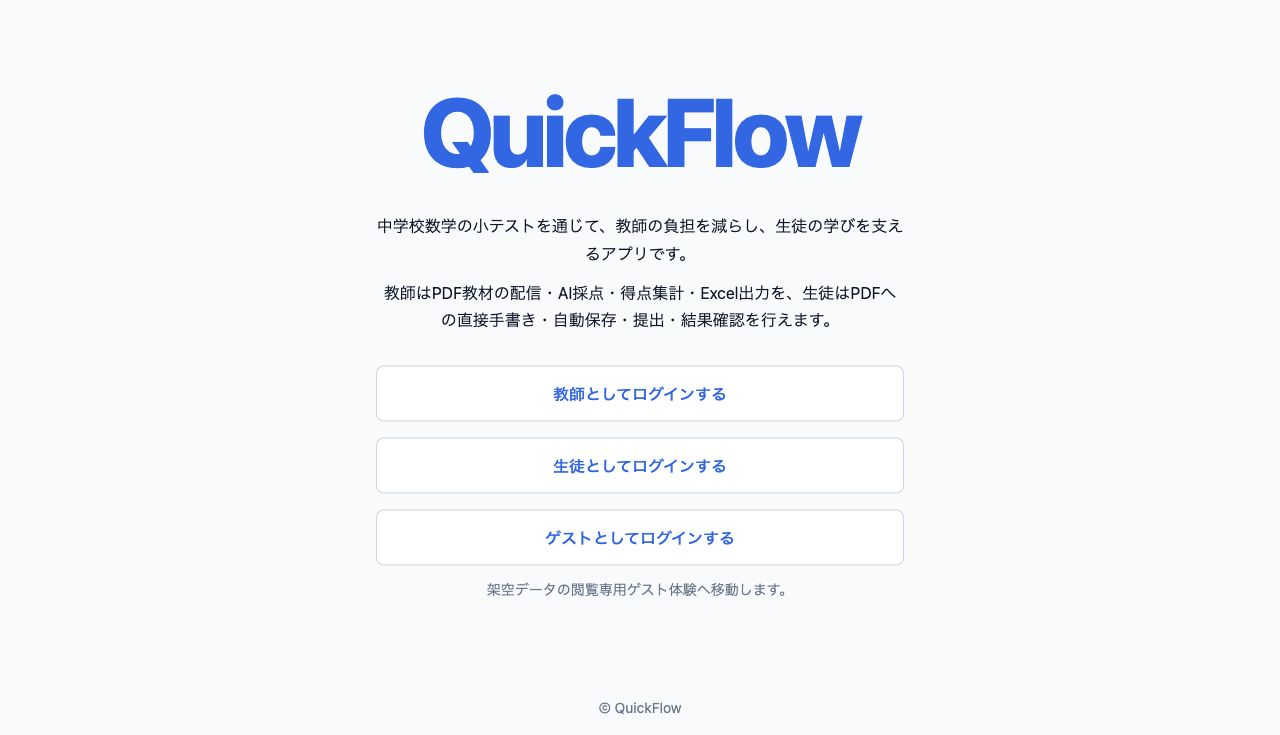
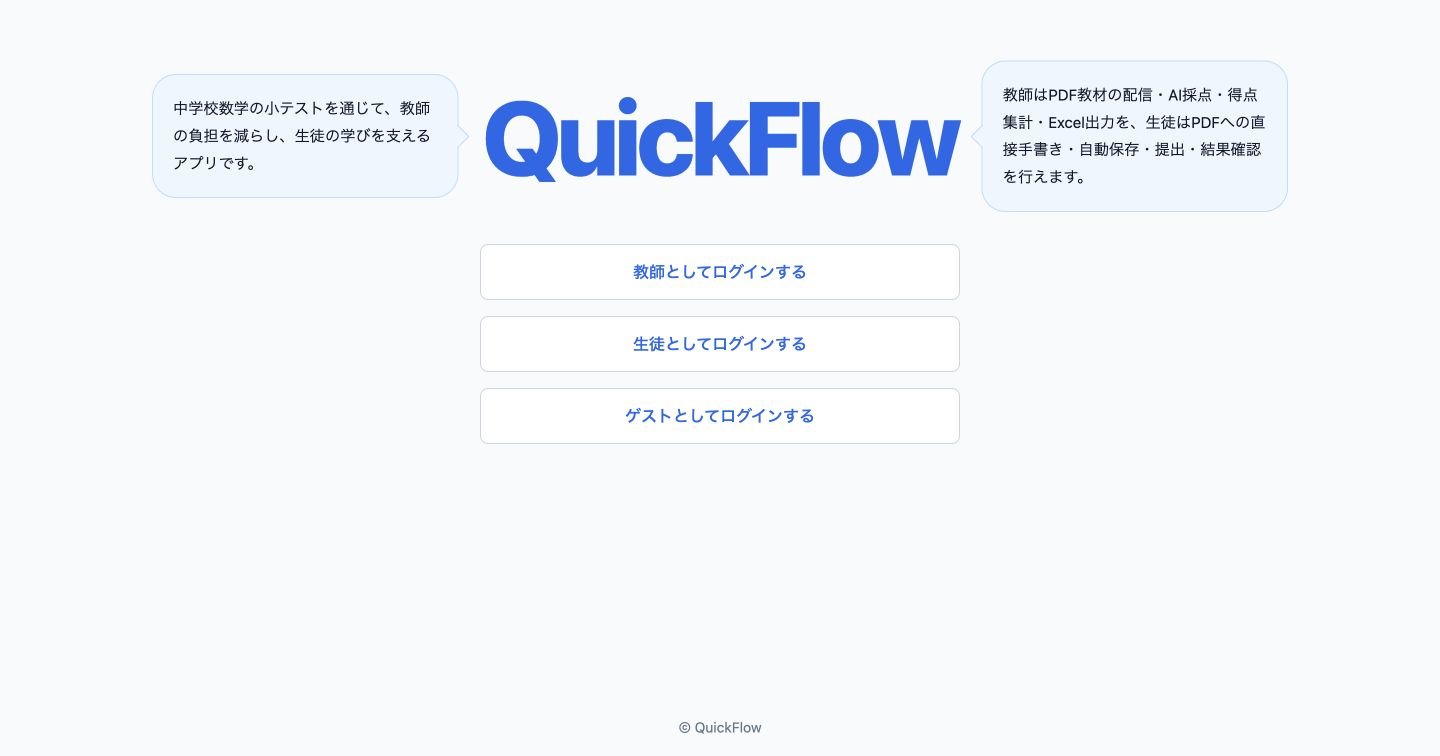
docs: refresh current public and guest README screenshots

diff --git a/README.md b/README.md
@@ -31,29 +31,31 @@ AIによる判定をそのまま確定せず、読みにくい答案は「要確
 
 ## 使い方と画面
 
-以下は稼働版 `acd22fb9` の実画面を撮影したスクリーンショットです（2026-10-23 UTC）。トップ以外は公開guestの架空データで、実生徒の答案や実AIの実行結果ではありません。画面の文言や値を画像編集で差し替えていません。
+トップ・教師の成績一覧・生徒の結果は、稼働版 `4667c7ca` の実画面です（2026-10-24 UTC）。学校・アカウント・得点は公開guest用のサンプルで、教材・答案PDFは利用者が公開を承認したものです。判定と70点は手動の表示例で、実AIの実行結果ではありません。画面の文言や値を画像編集で差し替えていません。教師答案の画像だけは、下記のとおり前版の履歴を残しています。
+
+検証中に埋込みPDFが白く写る場面もありましたが、所有者は現行版の教師・生徒の両画面で表示を確認したと報告しています。原因の特定や、すべての環境での表示を保証するものではありません。
 
 ### 1. 教師がPDF教材を配信し、成績を確認する
 
 通常利用では、PDF教材・1問の点数・配信先クラスを確認して小テストを配信します。正答生成は非同期で進むため、状態を確認しながら待ちます。成績一覧では、採点済みの得点と未提出を区別できます。
 
-![教師guestの小テスト詳細と成績一覧。架空の採点済み10点と未提出を区別](docs/screenshots/teacher-grades.jpg)
+![教師guestの小テスト詳細と成績一覧。手動表示例70点と未提出、Excel出力の入口](docs/screenshots/teacher-grades.jpg)
 
-この画像は閲覧専用guestです。通常教師の配信・編集・Excel出力などの操作ボタンをすべて表示したものではありません。
+この画像は閲覧専用guestです。成績の閲覧とExcel出力を利用できますが、通常教師の配信・編集操作はできません。
 
 ### 2. 教師が答案と判定を見比べる
 
 答案PDFと問題ごとの結果を並べて確認できます。通常利用では、教師が最終判定を修正すると得点が再計算され、配信クラスを選んでExcelを出力できます。
 
-![標準Chromeで表示した教師guestの答案PDFと判定。架空の3x+2x、サンプル回答5x、最終判定は正解](docs/screenshots/teacher-answer.jpg)
+![前版acd22fb9の履歴：標準Chromeで表示した教師guestの架空答案3x+2xと回答5x、正解判定](docs/screenshots/teacher-answer.jpg)
 
-PDFの本文も架空サンプルであることを明示しています。画像中の「AI読み取り」は表示項目名であり、この撮影でAIを実行したものではありません。
+この教師答案画像は前版 `acd22fb9`（2026-10-23 UTC）の履歴で、現在の「サンプルの小テスト」の答案ではありません。今回の撮影では現行版の教師答案が描画された画像を取得できなかったため、前版の画像を履歴として残しています。画像中の「AI読み取り」は表示項目名であり、この撮影でAIを実行したものではありません。
 
 ### 3. 生徒が答案と結果を確認する
 
 通常利用の流れは「PDFに手書き → 保存状態を確認 →『提出する』で正式提出 → 採点結果を確認」です。自動保存だけでは提出されません。採点では「正解・不正解・要確認」を区別し、要確認は得点に加算しません。
 
-![標準Chromeで表示した生徒guestの答案PDFと採点結果。架空の得点10点と正解表示](docs/screenshots/student-result.jpg)
+![標準Chromeで表示した生徒guestの答案PDFと採点結果。手動表示例70点と判定表示。撮影時に埋込みPDFが描画された実画面](docs/screenshots/student-result.jpg)
 
 手書きの編集画面は閲覧専用guestでは操作できません。[過去の合成入力試験画像（黒い線）](docs/implementation/issue99-evidence/02-student-saved-handwriting.png)と[保存・再読込の検証記録](docs/implementation/issue103_submission_evidence.md)を別に残しています。この旧画像は試験用タイトルと黒い線を示すもので、保存状態の表示は撮影範囲外です。保存・復元の成立は検証記録を参照し、現在の編集画面を撮り直した画像とは区別してください。
 
